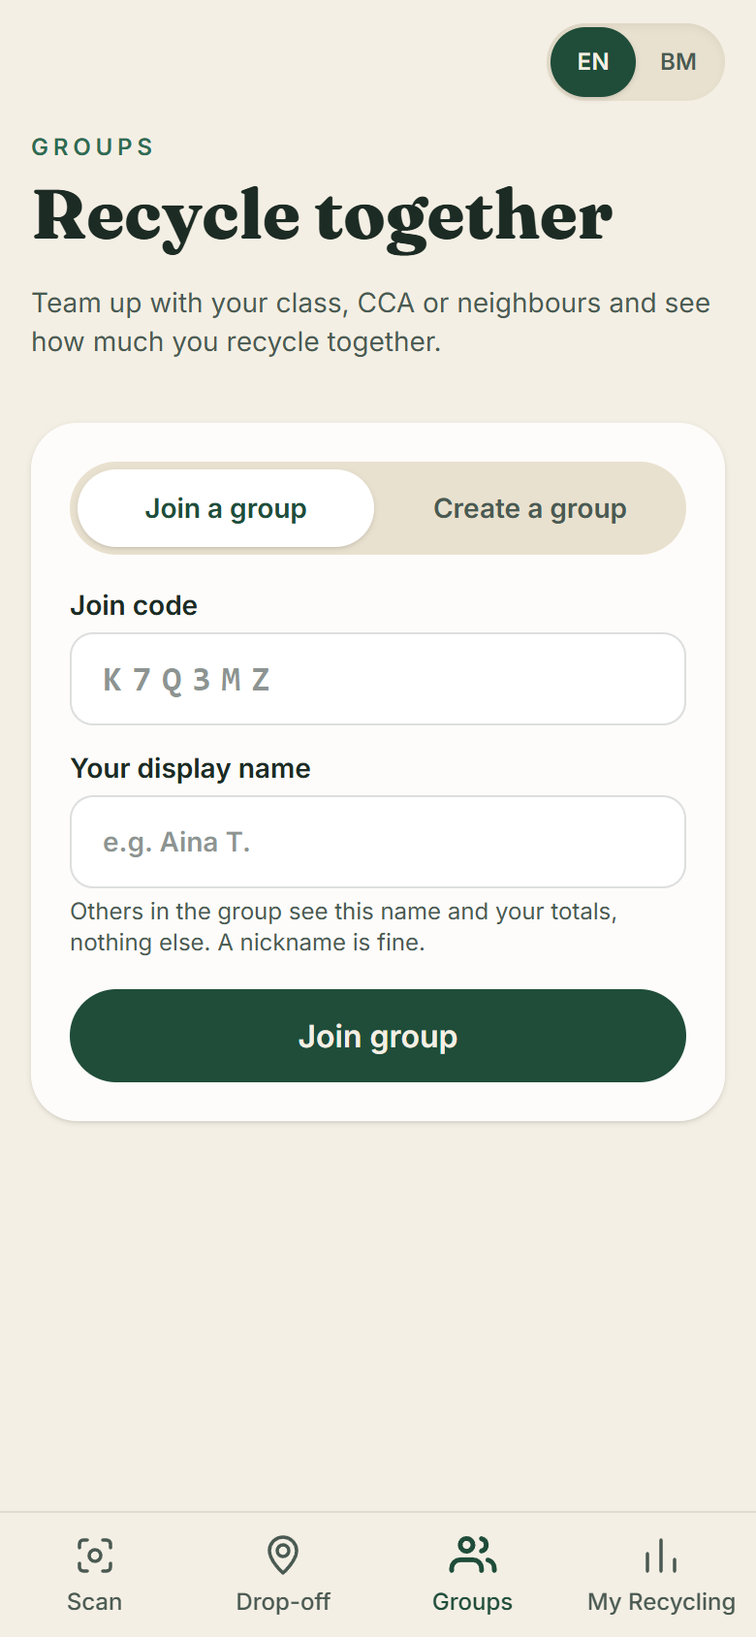
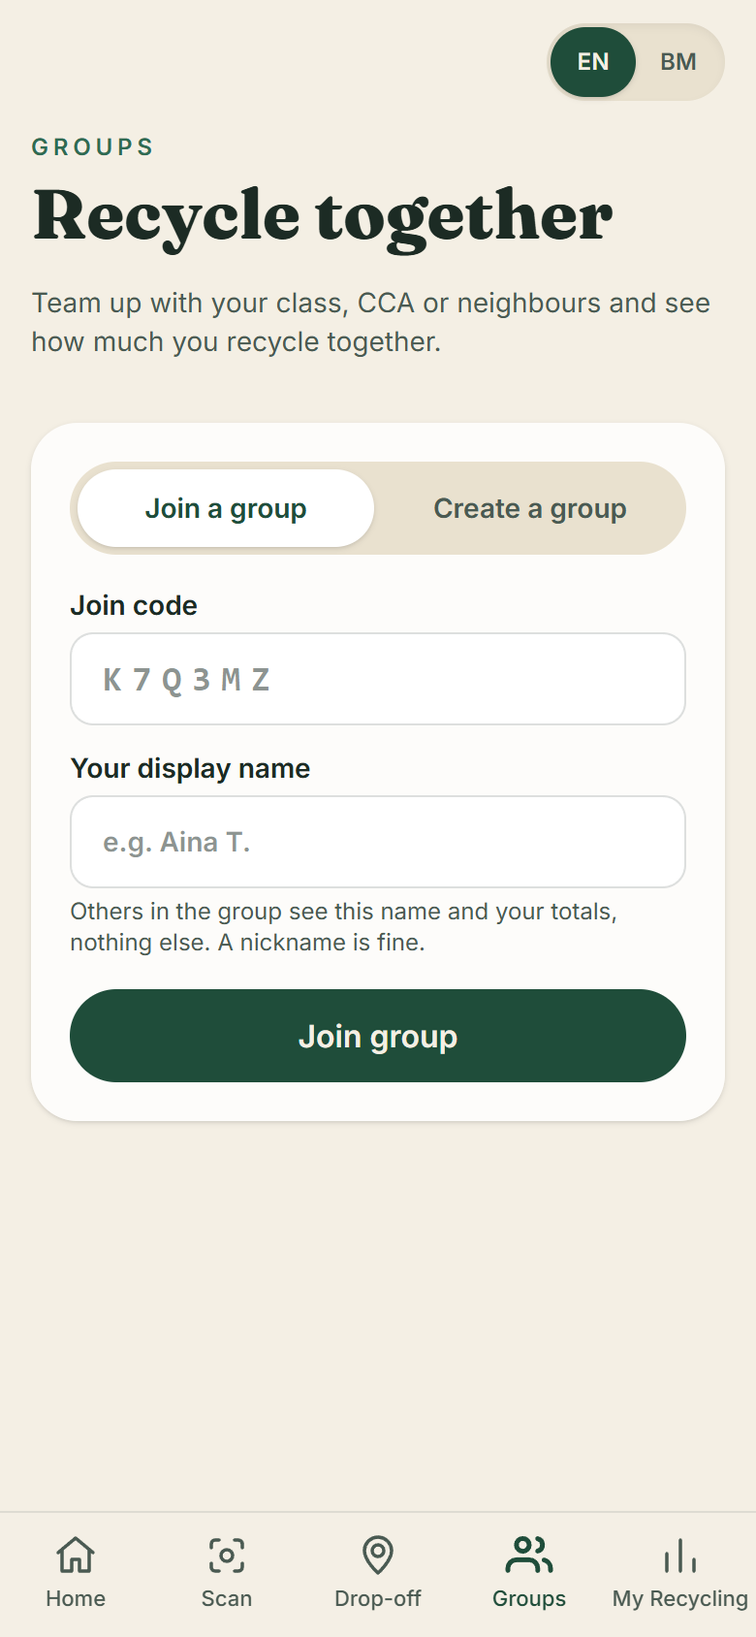
docs: new screenshots, home/welcome features and litter section in README
- Retake all screenshots with the 5-tab nav, and add Welcome, Home and
  My Recycling (sample data)
- New section on how the app helps reduce littering and waste, with ways
  to measure the impact; add SDG 14 (marine debris)
- Document the welcome screen, Home page and streak behaviour; update
  account, setup, test-count and project-structure text
- Shrink bottom-nav labels slightly so "My Recycling" fits on one line

diff --git a/web/src/components/BottomNav.tsx b/web/src/components/BottomNav.tsx
@@ -37,7 +37,7 @@ export function BottomNav({ current }: BottomNavProps) {
               <a
                 href={routeHref(item.route)}
                 aria-current={isActive ? 'page' : undefined}
-                className={`flex min-h-16 flex-col items-center justify-start gap-1 px-0.5 pt-2.5 text-center text-xs leading-tight font-medium transition-colors ${
+                className={`flex min-h-16 flex-col items-center justify-start gap-1 px-0.5 pt-2.5 text-center text-[0.6875rem] leading-tight font-medium transition-colors ${
                   isActive ? 'text-forest' : 'text-ink-soft hover:text-ink'
                 }`}
               >

diff --git a/README.md b/README.md
@@ -8,27 +8,32 @@ Scan2Recycle is a free, installable web app (PWA) built for a Malaysian communit
 
 ## Screenshots
 
-Phone-sized views of the app (English, plus the Bahasa Melayu switch on the right).
+Phone-sized views of the app. Home and My Recycling show sample data.
 
-| Scan | Can I recycle…? | Drop-off map | Groups | Bahasa Melayu |
-|:---:|:---:|:---:|:---:|:---:|
-| <img src="docs/screenshots/scan.png" alt="Scan screen with the camera button and search box" width="160"> | <img src="docs/screenshots/search.png" alt="Searching for a battery shows it is not recyclable" width="160"> | <img src="docs/screenshots/dropoff.png" alt="Map of recycling points around Kuala Lumpur with material filters" width="160"> | <img src="docs/screenshots/groups.png" alt="Join or create a group with a join code" width="160"> | <img src="docs/screenshots/scan-bm.png" alt="The scan screen in Bahasa Melayu" width="160"> |
+| Welcome | Home | Scan | Can I recycle…? |
+|:---:|:---:|:---:|:---:|
+| <img src="docs/screenshots/welcome.png" alt="Welcome screen with sign up, log in and continue as guest" width="180"> | <img src="docs/screenshots/home.png" alt="Home page with the scan button, a 5-day streak, this week's and total kilograms, and shortcuts" width="180"> | <img src="docs/screenshots/scan.png" alt="Scan screen with the camera button and search box" width="180"> | <img src="docs/screenshots/search.png" alt="Searching for a battery shows it is not recyclable" width="180"> |
+
+| Drop-off map | Groups | My Recycling | Bahasa Melayu |
+|:---:|:---:|:---:|:---:|
+| <img src="docs/screenshots/dropoff.png" alt="Map of recycling points around Kuala Lumpur with material filters" width="180"> | <img src="docs/screenshots/groups.png" alt="Join or create a group with a join code" width="180"> | <img src="docs/screenshots/stats.png" alt="My Recycling with total kilograms, a 5-day streak, the weekly goal and material bars" width="180"> | <img src="docs/screenshots/scan-bm.png" alt="The scan screen in Bahasa Melayu" width="180"> |
 
 ## Contents
 
 1. [The problem and how the app helps](#1-the-problem-and-how-the-app-helps)
-2. [Sustainable Development Goals (SDGs)](#2-sustainable-development-goals-sdgs)
-3. [Features, screen by screen](#3-features-screen-by-screen)
-4. [How it works](#4-how-it-works)
-5. [Tech stack](#5-tech-stack)
-6. [Data model and security](#6-data-model-and-security)
-7. [Privacy](#7-privacy)
-8. [Languages](#8-languages)
-9. [Project structure](#9-project-structure)
-10. [Setup](#10-setup)
-11. [Scripts, tests and quality](#11-scripts-tests-and-quality)
-12. [Limitations and roadmap](#12-limitations-and-roadmap)
-13. [Credits and data sources](#13-credits-and-data-sources)
+2. [How it helps reduce littering and waste](#2-how-it-helps-reduce-littering-and-waste)
+3. [Sustainable Development Goals (SDGs)](#3-sustainable-development-goals-sdgs)
+4. [Features, screen by screen](#4-features-screen-by-screen)
+5. [How it works](#5-how-it-works)
+6. [Tech stack](#6-tech-stack)
+7. [Data model and security](#7-data-model-and-security)
+8. [Privacy](#8-privacy)
+9. [Languages](#9-languages)
+10. [Project structure](#10-project-structure)
+11. [Setup](#11-setup)
+12. [Scripts, tests and quality](#12-scripts-tests-and-quality)
+13. [Limitations and roadmap](#13-limitations-and-roadmap)
+14. [Credits and data sources](#14-credits-and-data-sources)
 
 ---
 
@@ -42,20 +47,54 @@ Most people want to recycle, but three small obstacles stop them:
 | **"Where do I take it?"** Items like e-waste, clothes and batteries need a drop-off point, and few people know where the nearest one is. | The item goes in the bin anyway, or stays in a drawer. | A drop-off map with filters per material, distances, and directions. Anyone can add a hub they know about, so the map keeps improving. |
 | **"Does it make a difference?"** Recycling feels invisible. | Motivation fades. | Totals per material, a "you have diverted X kg" message, a daily streak, a weekly goal, and group leaderboards for classes or neighbourhoods. |
 
-It is designed for **phones, schools and low-data situations**: it is free, needs no sign-up to start, works in **English and Bahasa Melayu**, and the AI runs on the device so photos are never uploaded.
+It is designed for **phones, schools and low-data situations**: it is free, lets people start as a guest without an email, works in **English and Bahasa Melayu**, and the AI runs on the device so photos are never uploaded.
 
-## 2. Sustainable Development Goals (SDGs)
+## 2. How it helps reduce littering and waste
 
-Scan2Recycle contributes mainly to **SDG 12** and supports three others. The table says what the app actually does for each goal. It does not claim measured outcomes, because the app has not yet been evaluated in a real rollout (see [Limitations](#12-limitations-and-roadmap)).
+Litter is mostly not a problem of people who don't care. It builds up when the right choice is unclear, inconvenient or invisible: an item doesn't obviously belong in any bin, the nearest drop-off point is unknown, or the effort feels pointless. Scan2Recycle tackles each of those moments. It is **designed to** reduce littering and wrongly sorted waste; it has not yet been measured in a real rollout (see [how impact could be measured](#how-impact-could-be-measured)).
+
+| Why waste ends up as litter or in the wrong place | What Scan2Recycle does about it |
+|---|---|
+| **Not knowing where an item goes.** When people are unsure, items are left behind, dropped beside a full bin, or thrown in the wrong stream. | A photo or a typed search gives an instant answer: recyclable or not, which coloured bin, and a one-line tip. Clear rules remove the "I'll just leave it" moment. |
+| **Hard-to-dispose items.** Batteries, e-waste, old clothes and glass often have no home bin, so they get dumped, burned or left in drawers until they are thrown out anywhere. | The result links straight to the **drop-off map**, filtered for that material, with distances and directions. Residents can add hubs they know about, so the map fills the gaps where official data is thin. |
+| **Contaminated recycling.** One greasy or wrong item can send a whole bin to landfill, and overflowing or mixed bins attract more dumping around them. | Item-level rules (a greasy pizza box is paper but goes to general waste; a drinking glass doesn't go in the glass bin) keep recycling clean so bins stay usable. |
+| **No habit.** One-off campaigns fade after a week. | A **daily streak** (with a "save today to keep your streak going" reminder), a **weekly goal** and running kilogram totals turn sorting into a routine. The Home page shows all three at a glance every time the app opens. |
+| **No social push.** Littering drops when people see others doing the right thing. | **Groups and leaderboards** let classes, CCAs and neighbourhoods compete and see their combined total, making good disposal a visible group norm. |
+| **Not understanding the harm.** | Every answer is a small lesson (why batteries are hazardous, why some paper isn't recyclable), in **English and Bahasa Melayu**, so it works across schools and communities. |
+
+Less litter on the ground also means less waste washing into drains, rivers and the sea, which is why the app also supports SDG 14 below.
+
+### How impact could be measured
+The app records what people save, but not litter itself. A school or neighbourhood rollout could measure the effect with:
+- **Before/after litter counts:** count items on the same routes or school areas for two weeks before and after introducing the app.
+- **Bin contamination checks:** inspect a sample of recycling bins for wrong items before and after.
+- **App data:** kilograms saved per material, how many people keep a streak of a week or more, and group totals over a term.
+- **A short survey:** do people feel more confident about which bin to use and where to take e-waste?
+
+## 3. Sustainable Development Goals (SDGs)
+
+Scan2Recycle contributes mainly to **SDG 12** and supports four others. The table says what the app actually does for each goal. It does not claim measured outcomes, because the app has not yet been evaluated in a real rollout (see [Limitations](#13-limitations-and-roadmap)).
 
 | SDG | Relevant target | How Scan2Recycle contributes |
 |---|---|---|
 | **12 Responsible Consumption and Production** (main goal) | 12.5 reduce waste through prevention, reduction, recycling and reuse; 12.8 information and awareness for sustainable lifestyles | Tells people exactly how to dispose of 88 common items, so more waste ends up in the right stream and less contaminates recycling. Tips encourage reuse and donation (clothes, books, toys). Logging weights makes recycling visible and measurable. |
-| **11 Sustainable Cities and Communities** | 11.6 reduce the environmental impact of cities, including municipal waste management | The community drop-off map (OpenStreetMap points plus hubs added by residents) makes existing recycling infrastructure easier to find and use, and shows where it is missing. Groups let a class, CCA or neighbourhood recycle together. |
+| **11 Sustainable Cities and Communities** | 11.6 reduce the environmental impact of cities, including municipal waste management | Clear disposal answers and easy-to-find drop-off points aim to cut littering and dumping (see [section 2](#2-how-it-helps-reduce-littering-and-waste)). The community drop-off map (OpenStreetMap points plus hubs added by residents) makes existing recycling infrastructure easier to find and use, and shows where it is missing. Groups let a class, CCA or neighbourhood recycle together. |
 | **4 Quality Education** | 4.7 education for sustainable development | Every result is a small lesson (why a paper cup is not recyclable, why batteries are hazardous). Built for school use, in both national languages, with group leaderboards for friendly class competitions. |
+| **14 Life Below Water** | 14.1 reduce marine pollution, including marine debris | Much marine plastic starts as land litter carried by drains and rivers. Getting plastic, cans and glass into the right bin instead of onto the street keeps it out of waterways. |
 | **13 Climate Action** | 13.3 education and awareness on climate mitigation | Behaviour change and awareness: recycling and composting divert waste from landfill. The app does **not** yet estimate CO₂ saved. That needs sourced emission factors and is on the roadmap. |
 
-## 3. Features, screen by screen
+## 4. Features, screen by screen
+
+### Welcome: sign up, log in or continue as guest
+- The app opens on a welcome screen. Everyone chooses **Sign up** (email and password), **Log in**, or **Continue as guest** before using it. Links to a specific page (for example a group invite) still open that page once they have chosen.
+- **Sign up** creates an account straight away, or sends a confirmation email first when "Confirm email" is on in Supabase (with "Send the email again"). An email that already has an account is told to log in instead.
+- **Log in** includes "Forgot password?", which emails a reset link.
+- **Guest** scans stay on that device. Guests see a reminder on Home and can turn the guest account into a full account later with "Save my progress" in My Recycling, keeping every scan.
+
+### Home
+- The first tab and the default page. A big **Scan an item** button, then a strip with the **day streak**, **this week's** kilograms and the **all-time total**. Tapping the strip opens My Recycling.
+- When a streak is running but nothing has been saved today, Home says **"Save an item today to keep your streak going."** With no streak yet it suggests starting one.
+- Shortcuts to **Drop-off points** and **Groups**, and the guest reminder when relevant.
 
 ### Scan: "What's in your hand?"
 - **Camera or gallery.** Take a photo (rear camera) or pick one. Photos are checked (must be an image, not empty, at most 20 MB) and shrunk to 512 px before the AI sees them.
@@ -79,21 +118,21 @@ Type an item in **English or Malay** (for example "pizza box", "kotak piza", "ba
 - A list sorted by distance with address, opening hours, accepted materials, and a **Directions** button (opens Google Maps).
 - **Nearest available:** if nothing is within 8 km, the search widens to 60 km and the page says so. Points that do not list their materials are shown last with a note to check first.
 - **Add a recycling hub:** drop a pin, name it, choose what it accepts, add hours and notes. It appears on the map for everyone straight away; up to 10 a day per person, and people can delete their own.
-- Works even when the free OpenStreetMap servers are down (see [How it works](#4-how-it-works)).
+- Works even when the free OpenStreetMap servers are down (see [How it works](#5-how-it-works)).
 
 ### My Recycling
 - **Total recycled** with the "you've helped divert X of recyclable waste" message and a note for items saved without a weight.
-- **Streak and weekly goal:** days in a row with a saved item, and this week's kilograms against a goal of 0.5, 1, 2 or 5 kg (weeks start on Monday).
+- **Streak and weekly goal:** days in a row with a saved item, and this week's kilograms against a goal of 0.5, 1, 2 or 5 kg (weeks start on Monday). Days follow the phone's local calendar. A streak that ended yesterday stays alive until midnight, and the card says so ("save an item today to keep your streak going"); missing a whole day resets it to 0.
 - **Material bars** in the real bin colours with weight and item counts.
 - **History:** every saved item with date, weight and a delete button.
-- **Account card:** "Save my progress" with an email and password so totals follow you to other phones, plus sign-in, forgot-password and sign-out.
+- **Account card:** for guests, "Save my progress" adds an email and password so totals follow you to other phones. Signed-in users can change their password or sign out, which returns to the welcome screen.
 
 ### Groups
 - **Create or join** a group with a 6-character code (for example `K7Q3MZ`; no 0/O/1/I so codes are easy to read out). Up to 10 groups each.
 - **Leaderboard** for the last 7 days or all time, with medals, the group's combined total and an **Invite friends** button (native share sheet, or copies the invite).
 - Members see **only display names and totals**: never emails or ids. A nickname is fine.
 
-## 4. How it works
+## 5. How it works
 
 ```
 Phone browser (React PWA)
@@ -123,19 +162,19 @@ Free OpenStreetMap (Overpass) servers are often slow or rate-limited, so the map
 ### Offline and installable
 The app shell is precached by a service worker and can be installed to the home screen (Android Chrome: menu → Install app; iPhone Safari: Share → Add to Home Screen). The AI model is cached after the first scan. Saving, groups and loading the item list need a connection.
 
-## 5. Tech stack
+## 6. Tech stack
 
 | Layer | Technology | Why |
 |---|---|---|
 | UI | **React 19**, **TypeScript 6**, **Tailwind CSS 4** | Fast, typed, mobile-first styling with a custom green/yellow palette and Fraunces + Inter fonts |
 | Build and PWA | **Vite 8**, **vite-plugin-pwa** (Workbox) | Installable app. The 27 MB ONNX runtime is excluded from the precache and cached when first needed |
 | AI | **Transformers.js** running `Xenova/siglip-base-patch16-224` (8-bit), in a **Web Worker** | Zero-shot image recognition with no server, no cost and no photo upload. New items need no retraining |
-| Database and auth | **Supabase** (Postgres, Auth, **Row Level Security**) | Free tier, anonymous sign-in so people can start without an account, optional email and password |
+| Database and auth | **Supabase** (Postgres, Auth, **Row Level Security**) | Free tier; email and password accounts, plus anonymous sign-in for "Continue as guest" |
 | Map | **Leaflet 1.9** + **OpenStreetMap** tiles and the **Overpass API** | Free and keyless, with open data and community contributions |
 | Hosting | **Vercel** (root directory `web`) | Auto-deploys on every push to `main` |
-| Testing and linting | **Vitest** (165 tests), **oxlint**, `tsc` strict type-check | Pure logic is covered by unit tests |
+| Testing and linting | **Vitest** (171 tests), **oxlint**, `tsc` strict type-check | Pure logic is covered by unit tests |
 
-## 6. Data model and security
+## 7. Data model and security
 
 | Table | Who can read | Who can write |
 |---|---|---|
@@ -146,16 +185,16 @@ The app shell is precached by a service worker and can be installed to the home 
 
 - **Every table has Row Level Security**, so the publishable key in the app is safe. The service-role (secret) key must never be put in the web app.
 - Database CHECK constraints mirror the app's validation (weight between 0 and 50 kg, name lengths, allowed materials, join-code format), so bad data is rejected even if someone bypasses the app.
-- Saved data belongs to an anonymous Supabase user kept in the browser. "Save my progress" links an email to that user so earlier scans are kept, and totals then follow the person to other phones.
+- Saved data belongs to the signed-in Supabase user. A guest is an anonymous user kept in the browser; "Save my progress" links an email to that user so earlier scans are kept, and totals then follow the person to other phones. A guest user is only ever created by the "Continue as guest" button, never in the background.
 
-## 7. Privacy
+## 8. Privacy
 
 - **Photos never leave the phone.** The AI runs on the device; only the model files are downloaded.
 - **Location stays on the phone.** It is requested only when the person taps "Use my location" and is never sent to a server.
 - **Groups reveal only a display name and totals** to other members. No emails, no ids.
 - No ads, no tracking scripts. The app uses Google Fonts and OpenStreetMap tiles, which receive normal web requests.
 
-## 8. Languages
+## 9. Languages
 
 The whole interface switches between **English** (default) and **Bahasa Melayu** with the EN | BM toggle (remembered on the device). Item names, tips, material names and bin names switch too, and search understands both languages.
 
@@ -164,7 +203,7 @@ The whole interface switches between **English** (default) and **Bahasa Melayu**
 - Database text uses `*_ms` columns and falls back to English if a Malay value is missing.
 - The Malay text was written with AI help and **should be reviewed by a native speaker before any launch.**
 
-## 9. Project structure
+## 10. Project structure
 
 ```
 supabase/                 Database schema (migrations/), starter data (seed.sql) and setup_all.sql (everything in one re-runnable file)
@@ -176,14 +215,14 @@ web/                      The app: React + Vite + TypeScript, installable PWA
     lib/                  Pure logic and Supabase calls (accounts, logs, groups, totals, streaks, search, weight, image …)
       classifier/         Web Worker, client, model settings, similarity maths, decision rules
       places/             Overpass, snapshot, community hubs, distance and filtering helpers
-    features/             Screens: scan, dropoff, groups, stats, history, account, setup
+    features/             Screens: welcome, home, scan, dropoff, groups, stats, history, account, setup
     hooks/                useLoad, useHashRoute, useGeolocation
 docs/screenshots/         Images used in this README
 ```
 
 Conventions: immutable updates, small files, and a Vitest test beside each piece of pure logic. See [HANDOFF.md](HANDOFF.md) for more.
 
-## 10. Setup
+## 11. Setup
 
 ### 1. Run the app locally
 Needs Node.js 20+.
@@ -202,8 +241,8 @@ Open the URL it prints. If something isn't set up, the Scan page shows a **Setup
    (Same result as running `migrations/001_init.sql` … `005_languages_hubs.sql` in order, plus `seed.sql`.)
    Already set up earlier? Just run the newer files you haven't run yet (latest: `005_languages_hubs.sql`).
    **Run it in project `bvqctjqhcsuevcgzhyou`** (the browser address must contain it); the app ignores any other project.
-3. **Authentication → Sign In / Providers** → turn on **Allow anonymous sign-ins** (needed to save scans).
-   On the same page, under **Email**, turn **off "Confirm email"** so "Save my progress" works without an email service.
+3. **Authentication → Sign In / Providers** → turn on **Allow anonymous sign-ins** (needed for "Continue as guest").
+   On the same page, under **Email**, turn **off "Confirm email"** so sign-up and "Save my progress" work without an email service.
    (Supabase's built-in email only sends to your own team's addresses, 2 per hour. To keep confirmations on, set up
    custom SMTP, e.g. Resend or Brevo, under **Authentication → Emails → SMTP Settings**.)
 4. **Project Settings → API Keys** → copy the Project URL and the **publishable** key (`sb_publishable_…`).
@@ -228,7 +267,8 @@ free email service. Brevo's free plan sends 300 emails a day.
 5. Optional: **Authentication → Emails → Templates** to reword the "Confirm email change" and "Reset password" emails
    (e.g. in English and Malay).
 
-How it works in the app: "Save my progress" sends a confirmation link → the user opens it → the app shows
+How it works in the app: **Sign up** on the welcome screen sends a confirmation link → the user opens it → they are signed in.
+For guests, "Save my progress" sends a confirmation link → the user opens it → the app shows
 "Email confirmed, now set a password" → done. "Forgot password?" sends a reset link → the app shows "Set a new password".
 With "Confirm email" off, no email is sent and the account is created immediately.
 
@@ -253,7 +293,7 @@ Item labels are embedded ahead of time into `web/public/label-embeddings.json`. 
 - **Deploy (recommended):** import the repo into <https://vercel.com> or <https://netlify.com>, set the **root directory** to `web`, add the two `VITE_*` variables, and deploy.
 - On the phone, open the deployed link. Android Chrome: menu → **Install app**. iPhone Safari: Share → **Add to Home Screen**.
 
-## 11. Scripts, tests and quality
+## 12. Scripts, tests and quality
 
 Run these in `web/`:
 
@@ -262,15 +302,15 @@ Run these in `web/`:
 | `npm run dev` | Dev server (also reachable from your phone on the same Wi-Fi) |
 | `npm run build` | Type-check and build to `dist/` |
 | `npm run preview` | Serve the production build locally |
-| `npm test` | Unit tests (Vitest, 165 tests) |
+| `npm test` | Unit tests (Vitest, 171 tests) |
 | `npm run lint` | Lint (oxlint) |
 | `npm run generate-pwa-assets` | Regenerate app icons from `public/favicon.svg` |
 | `npm run embed-labels` | Recompute `public/label-embeddings.json` from `seed.sql`, the migrations and the live item list |
 | `npm run snapshot-points` | Re-download all OpenStreetMap recycling points in Malaysia to `public/osm-points-my.json` |
 
-The tests cover the pure logic: the scan state machine, AI scoring and decision thresholds, search, weights, totals, streaks, groups, validation, routing, map helpers and the English/Malay dictionaries (same keys and placeholders in both languages).
+The tests cover the pure logic: the scan state machine, AI scoring and decision thresholds, search, weights, totals, streaks (including the "saved today" check), sign-up outcomes, groups, validation, routing, map helpers and the English/Malay dictionaries (same keys and placeholders in both languages).
 
-## 12. Limitations and roadmap
+## 13. Limitations and roadmap
 
 **Known limitations**
 - The camera AI is good, not perfect (see the accuracy figures above). Cluttered real-world photos will score lower.
@@ -278,7 +318,7 @@ The tests cover the pure logic: the scan state machine, AI scoring and decision 
 - The first scan needs a ~100 MB download, so Wi-Fi is recommended.
 - Email confirmation and password reset need custom SMTP to reach real users.
 - The Malay text needs review by a native speaker.
-- No measured real-world impact yet: the SDG contributions above describe what the app is designed to do, not an evaluated result.
+- No measured real-world impact yet: the litter and SDG sections above describe what the app is designed to do, not an evaluated result.
 
 **Good next steps**
 1. Native-speaker review of the Malay text and the `*_ms` database values.
@@ -286,9 +326,10 @@ The tests cover the pure logic: the scan state machine, AI scoring and decision 
 3. Weigh common items and fill in typical weights.
 4. Moderation tools for community hubs if spam appears.
 5. CO₂ estimates per material, only with cited emission factors.
-6. Custom SMTP so email confirmation and password reset work for everyone.
+6. Run a before/after litter count with a school or neighbourhood (see [How impact could be measured](#how-impact-could-be-measured)).
+7. Custom SMTP so email confirmation and password reset work for everyone.
 
-## 13. Credits and data sources
+## 14. Credits and data sources
 
 - **Map data and tiles:** © [OpenStreetMap](https://www.openstreetmap.org/copyright) contributors, via [Leaflet](https://leafletjs.com) and the [Overpass API](https://overpass-api.de).
 - **AI model:** [SigLIP](https://huggingface.co/Xenova/siglip-base-patch16-224) (converted for the browser by Xenova), run with [Transformers.js](https://huggingface.co/docs/transformers.js).
